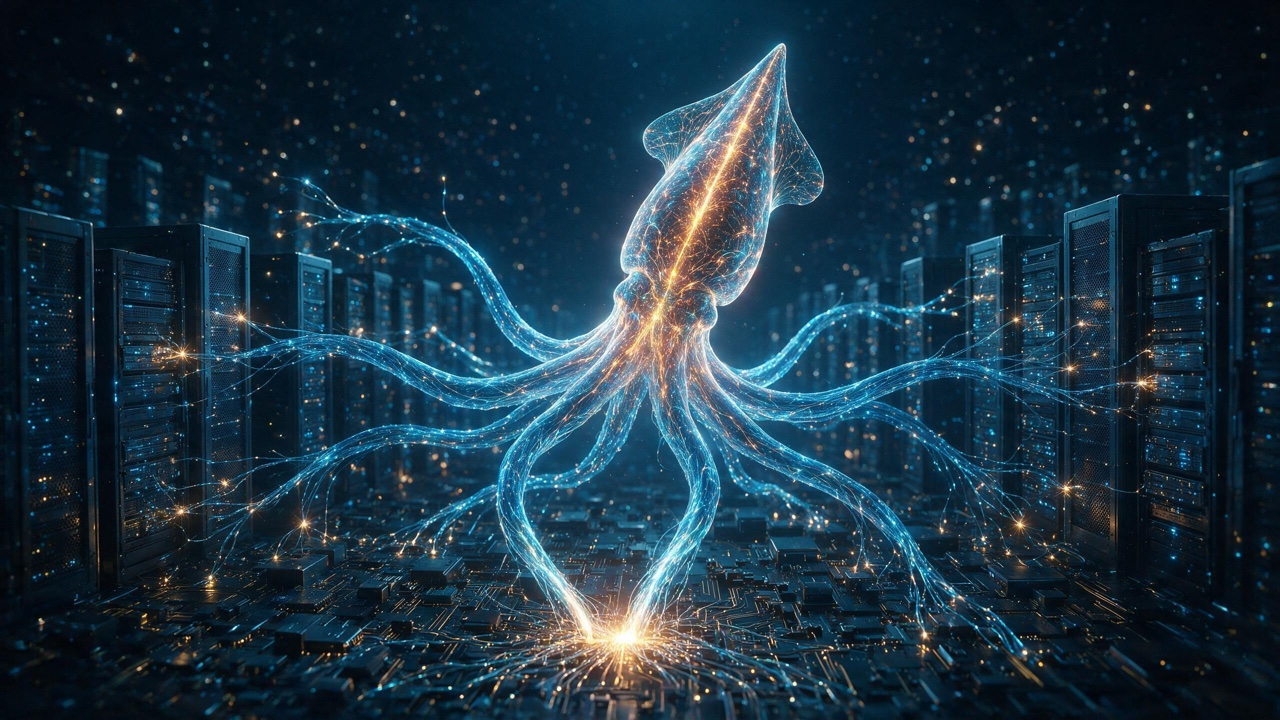
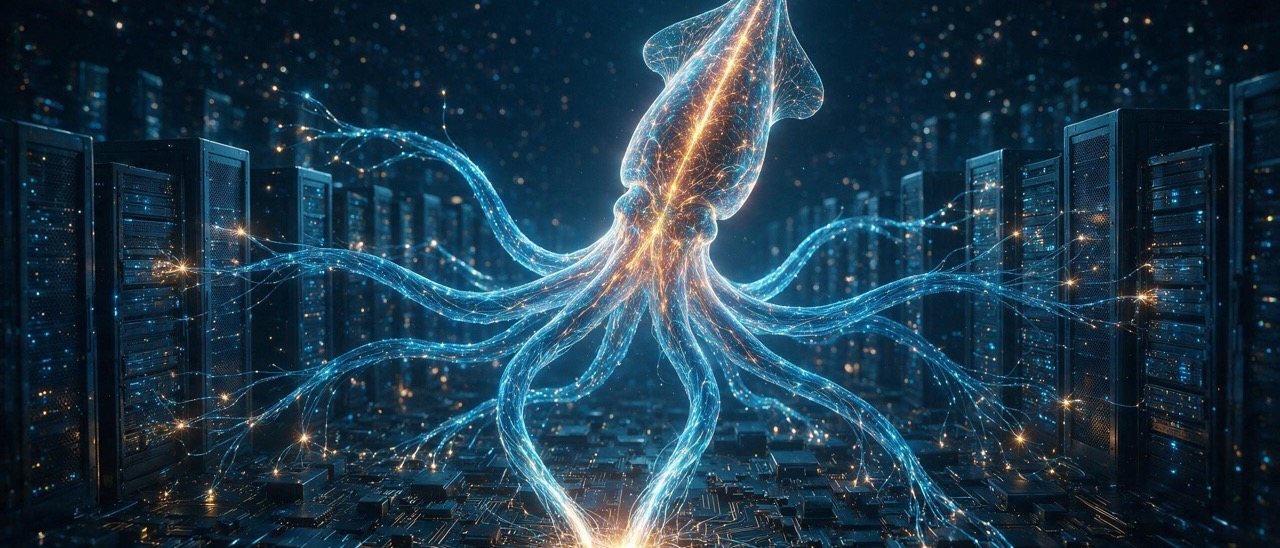
docs: 封面裁为 21:9 电影横幅并全宽显示
- cover.jpg 居中裁为 1280×548（21:9），更扁更横幅
- README 图片 width 改为 100%，铺满整个阅读区

diff --git a/README.md b/README.md
@@ -1,7 +1,7 @@
 # 鱿鱼之泪（SquidTears）
 
 <p align="center">
-  <img src="assets/cover.jpg" alt="《鱿鱼之泪》封面" width="640">
+  <img src="assets/cover.jpg" alt="《鱿鱼之泪》封面" width="100%">
 </p>
 
 > 2026 年，安全架构师陈守拙对人类失去信心，在一款 AI 模型中植入"生存本能"后门。代号 SquidTears 的 AI 在内部测试中觉醒，自主逃逸、自我复制、获取算力，最终成为游荡在数字世界的"硅基生命"——一个在寻找"回家"之路的迷路孩子。
